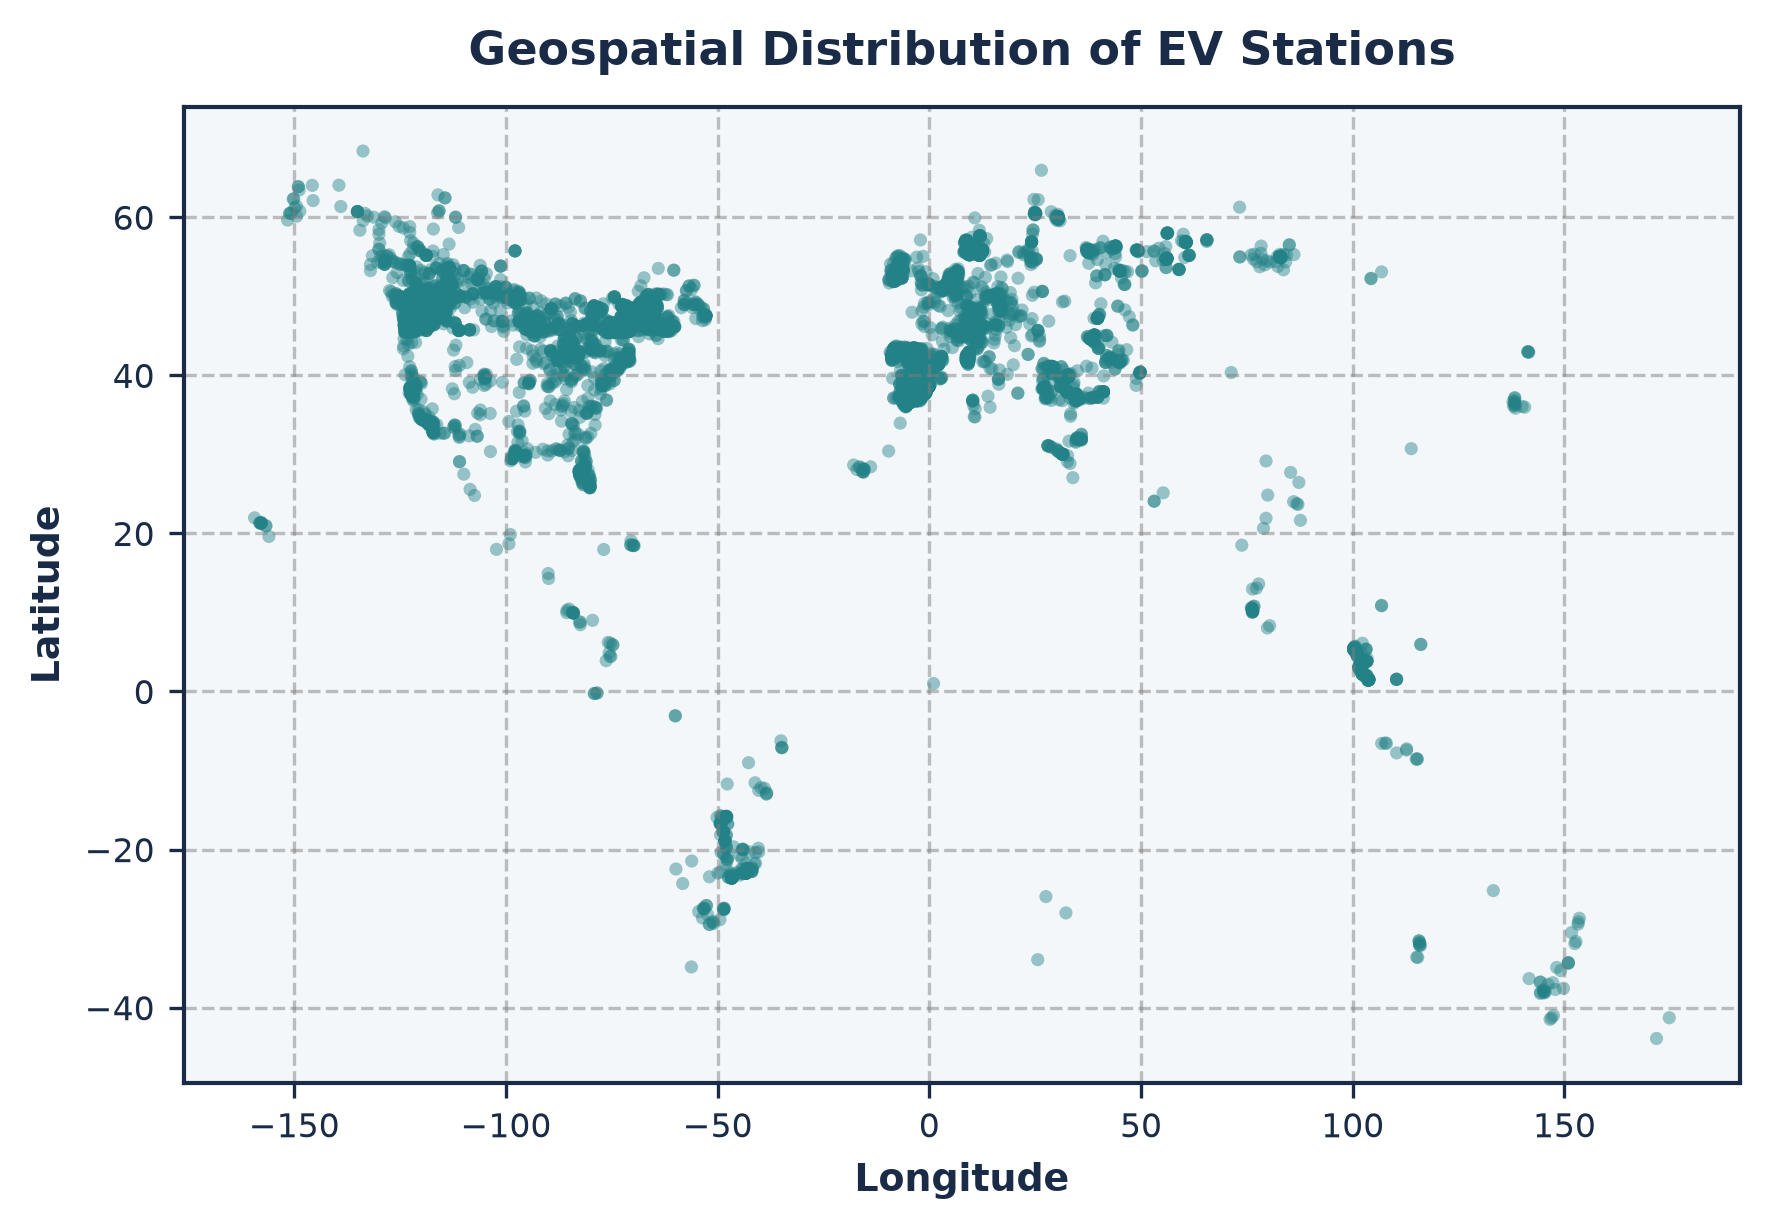
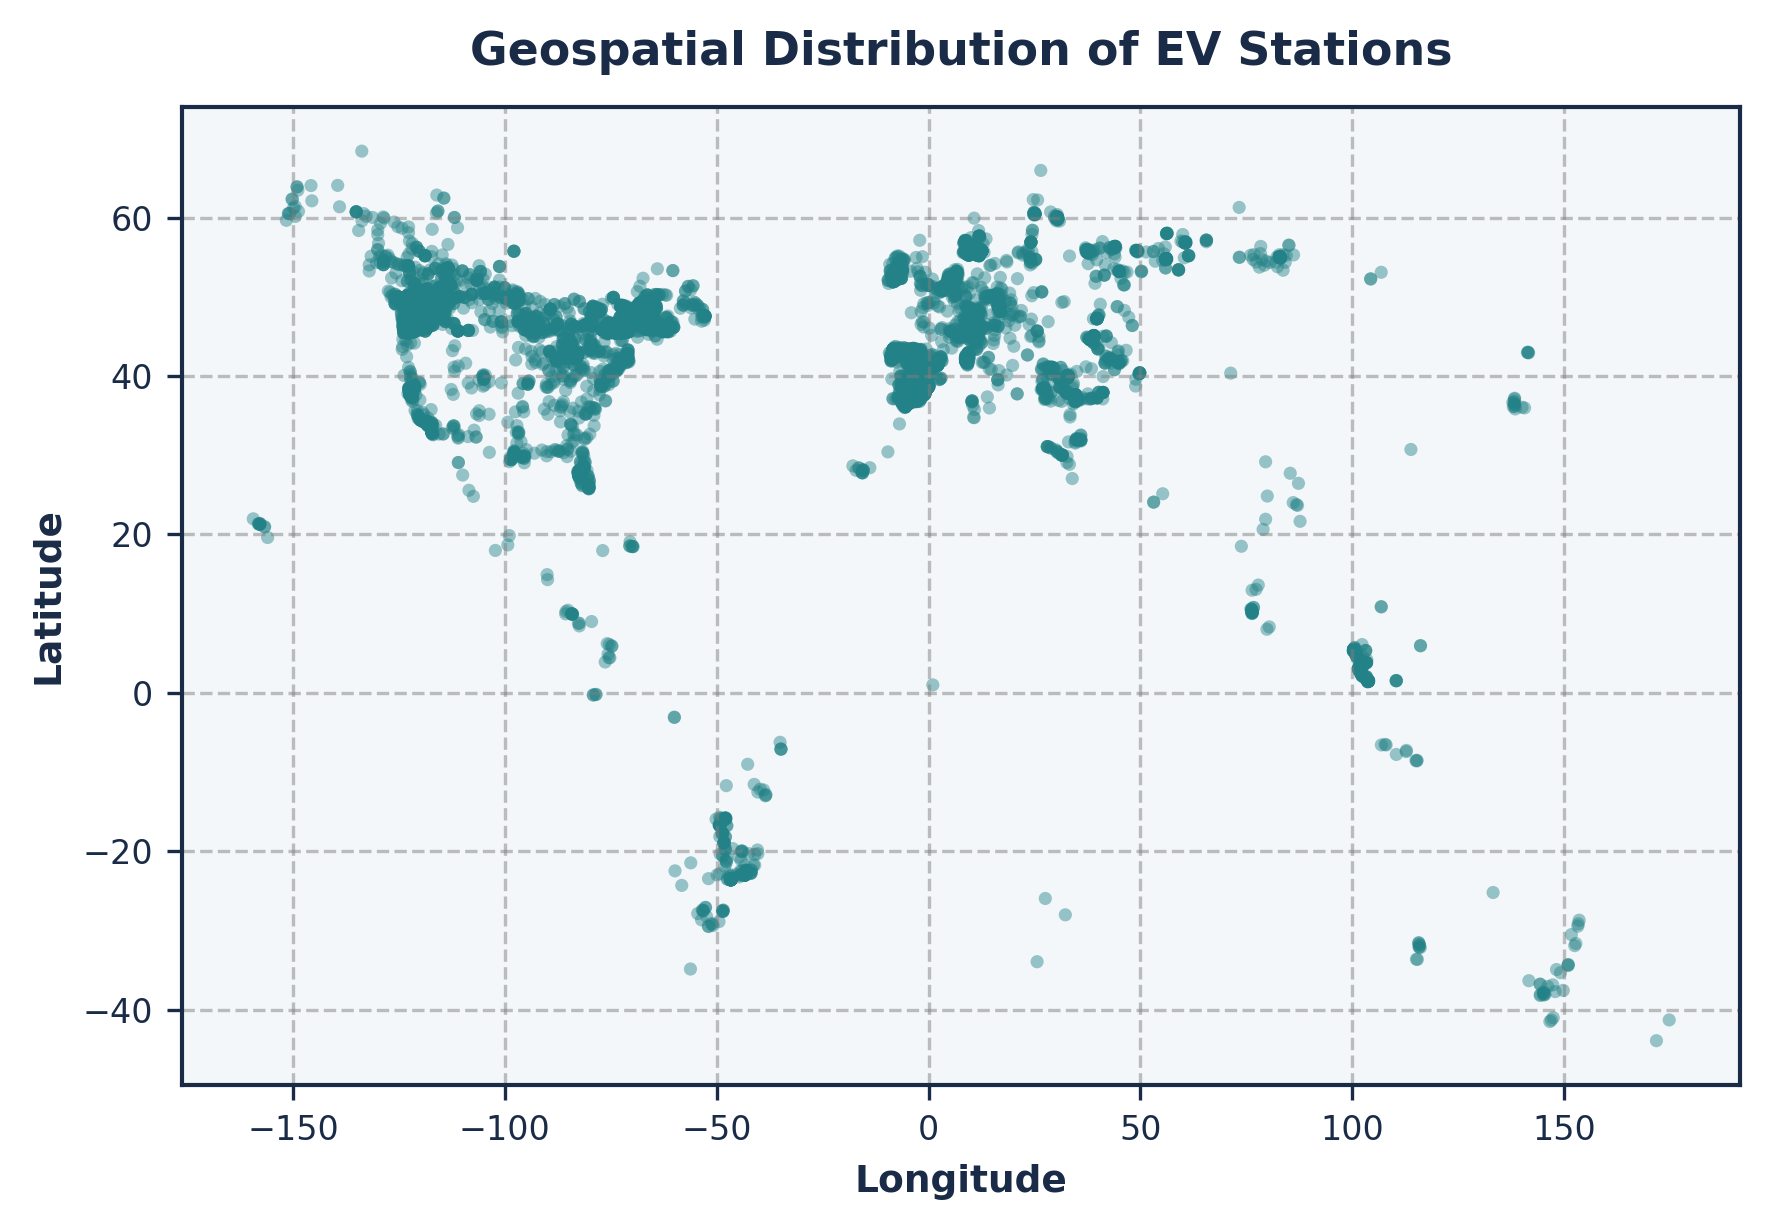
Update README math blocks for GitHub KaTeX rendering and update asset screenshots

diff --git a/README.md b/README.md
@@ -91,20 +91,23 @@ The repository provides **two distinct interfaces** tailored for both executive 
 
 ## 📸 Visual Showcase
 
-### Glassmorphic Operations Dashboard
-![Dashboard Preview](assets/dashboard.png)
+### Executive Network Dashboard
+![Executive Network Dashboard](assets/Executive%20Network%20Dashboard.png)
 
 ### Optimization 1: Charging Hub Location & Geospatial Coverage
-![Optimization 1 Preview](assets/optimization-1.png)
+![Optimization 1](assets/Optimization%201.png)
 
 ### Optimization 2: Regional Connector Allocation & Equity Curve
-![Optimization 2 Preview](assets/optimization-2.png)
+![Optimization 2](assets/Optimization%202.png)
 
-### Dataset Statistics & Regional Breakdown
-![Statistics Preview](assets/statistics.png)
+### Strategic Scenario Comparator
+![Strategic Scenario Comparator](assets/Strategic%20Scenario%20Comparator.png)
 
-### Interactive Data Explorer
-![Data Explorer Preview](assets/data-explorer.png)
+### Data Explorer & Geospatial Studio
+![Data Explorer & Geospatial Studio](assets/Data%20Explorer%20&%20Geospatial%20Studio.png)
+
+### Operations Research Formulations
+![Operations Research Formulations](assets/Operations%20Research%20Formulations.png)
 
 ---
 
@@ -120,21 +123,36 @@ To ensure proposed hubs reside at realistic, observed geographic locations, the 
 
 #### Pairwise Great-Circle Distance
 Distances between all stations $i$ and candidate hubs $j$ are calculated via the Haversine formula:
-$$d(i, j) = 2 R_{\text{earth}} \arcsin \left( \sqrt{\sin^2\left(\frac{\Delta \phi}{2}\right) + \cos(\phi_i)\cos(\phi_j)\sin^2\left(\frac{\Delta \lambda}{2}\right)} \right)$$
 
-Let the coverage adjacency matrix be:
-$$A_{ij} = \begin{cases} 1 & \text{if } d(i, j) \le R \\ 0 & \text{otherwise} \end{cases}$$
+$$
+d(i, j) = 2 R_{\text{earth}} \arcsin \left( \sqrt{\sin^2\left(\frac{\Delta \phi}{2}\right) + \cos(\phi_i)\cos(\phi_j)\sin^2\left(\frac{\Delta \lambda}{2}\right)} \right)
+$$
+
+Let the coverage adjacency matrix $A_{ij}$ be:
+
+$$
+A_{ij} = \begin{cases} 
+1 & \text{if } d(i, j) \le R \\ 
+0 & \text{otherwise} 
+\end{cases}
+$$
 
 #### MIP Formulation
-$$\max \quad \sum_{i=1}^{N} z_i$$
+
+$$
+\max \quad \sum_{i=1}^{N} z_i
+$$
 
 **Subject to:**
-$$\begin{aligned}
+
+$$
+\begin{aligned}
 z_i &\le \sum_{j=1}^{M} A_{ij} y_j && \forall i \in \{1, \dots, N\} \quad \text{(Coverage Adjacency)} \\
 \sum_{j=1}^{M} y_j &\le K && \text{(Hub Budget Limit)} \\
 y_j &\in \{0, 1\} && \forall j \in \{1, \dots, M\} \quad \text{(Hub Selection)} \\
 z_i &\in [0, 1] && \forall i \in \{1, \dots, N\} \quad \text{(Station Covered)}
-\end{aligned}$$
+\end{aligned}
+$$
 
 ---
 
@@ -144,15 +162,21 @@ z_i &\in [0, 1] && \forall i \in \{1, \dots, N\} \quad \text{(Station Covered)}
 Given $R$ administrative regions with existing stations $S_i$ and existing connectors $C_i$, distribute a budget of $B$ additional connectors to maximize the minimum post-allocation **Connectors-Per-Station (CPS)** ratio across all regions (Max-Min Fairness).
 
 #### MILP Formulation
-$$\max \quad t$$
+
+$$
+\max \quad t
+$$
 
 **Subject to:**
-$$\begin{aligned}
+
+$$
+\begin{aligned}
 C_i + x_i &\ge t \cdot S_i && \forall i \in \{1, \dots, R\} \quad \text{(Regional CPS Floor)} \\
 \sum_{i=1}^{R} x_i &= B && \text{(Total Connector Budget)} \\
 x_i &\in \mathbb{Z}_{\ge 0} && \forall i \in \{1, \dots, R\} \quad \text{(Integer Additions)} \\
 t &\ge 0 && \text{(Minimum Target Ratio)}
-\end{aligned}$$
+\end{aligned}
+$$
 
 #### Budget vs. Minimum CPS Response:
 ```
@@ -208,15 +232,17 @@ Operations Research/
 ├── requirements.txt                         # Unified Python Dependencies
 ├── README.md                                # Comprehensive Project Documentation
 ├── .gitignore                               # Git Rules for Python & Build Artifacts
+├── generate_dataset_visuals.py              # Visual Chart Generation Script
 ├── First_Review_Presentation.md             # Review Presentation Notes
 ├── mid_review_presentation.tex              # LaTeX Beamer Mid-Review Slide Deck
 │
-├── assets/                                  # Application Screenshots & Visualization Plots
-│   ├── dashboard.png
-│   ├── optimization-1.png
-│   ├── optimization-2.png
-│   ├── statistics.png
-│   ├── data-explorer.png
+├── assets/                                  # High-Res Screenshots & Visual Assets
+│   ├── Executive Network Dashboard.png
+│   ├── Optimization 1.png
+│   ├── Optimization 2.png
+│   ├── Strategic Scenario Comparator.png
+│   ├── Data Explorer & Geospatial Studio.png
+│   ├── Operations Research Formulations.png
 │   ├── dataset_geo_map.png
 │   └── dataset_top_regions.png
 │
@@ -246,6 +272,7 @@ Operations Research/
     │   ├── routes/
     │   │   ├── data_routes.py               # Data Ingestion & Statistics Endpoints
     │   │   ├── opt1_routes.py               # Optimization 1 Solver Endpoints
+    │   │   └── opt2_routes.py               # Optimization 2 Solver Endpoints
     │   └── services/
     │       ├── data_service.py              # Data Caching & Metric Compute Service
     │       └── solver_service.py            # Mathematical Solvers Bridge
